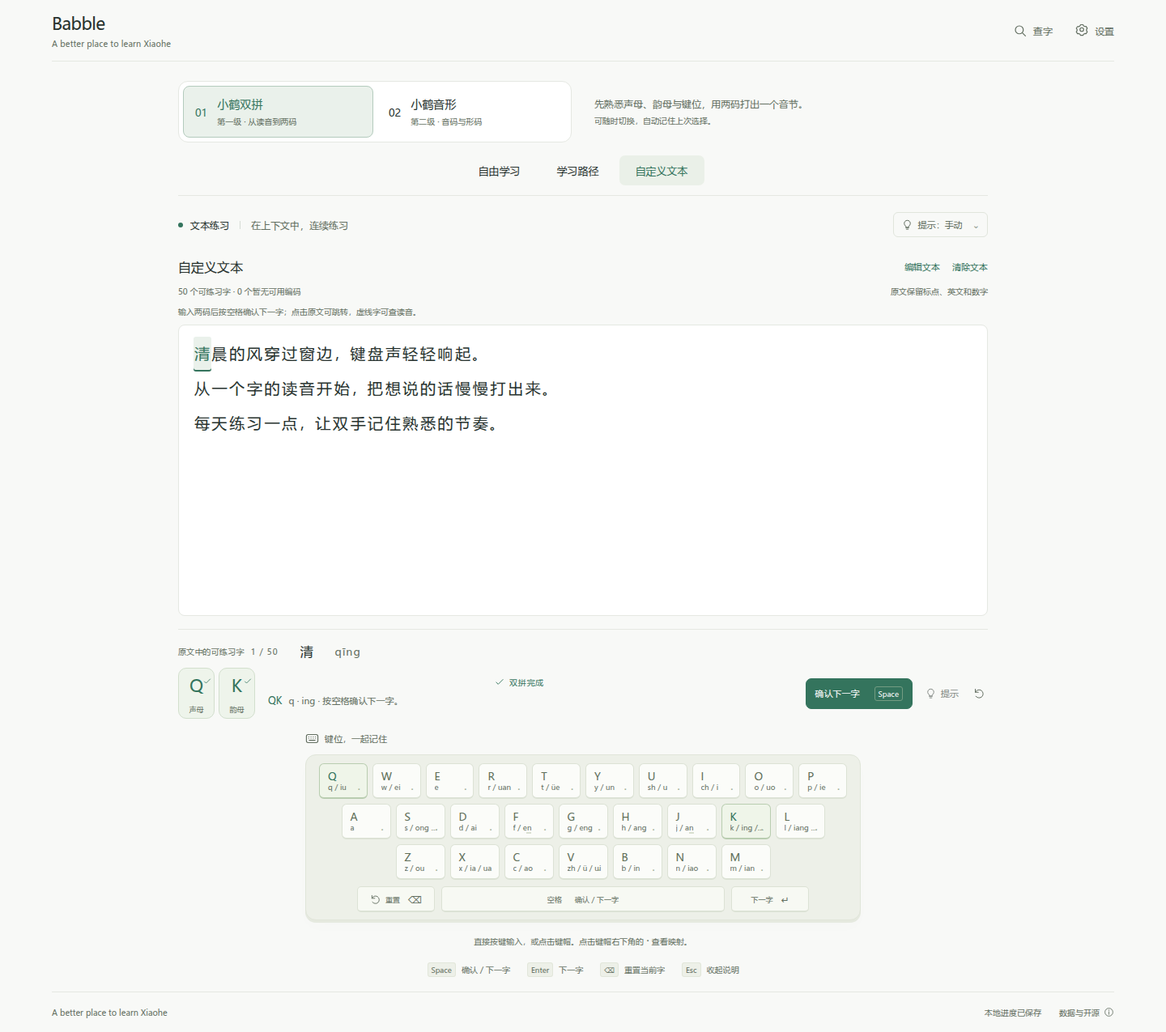
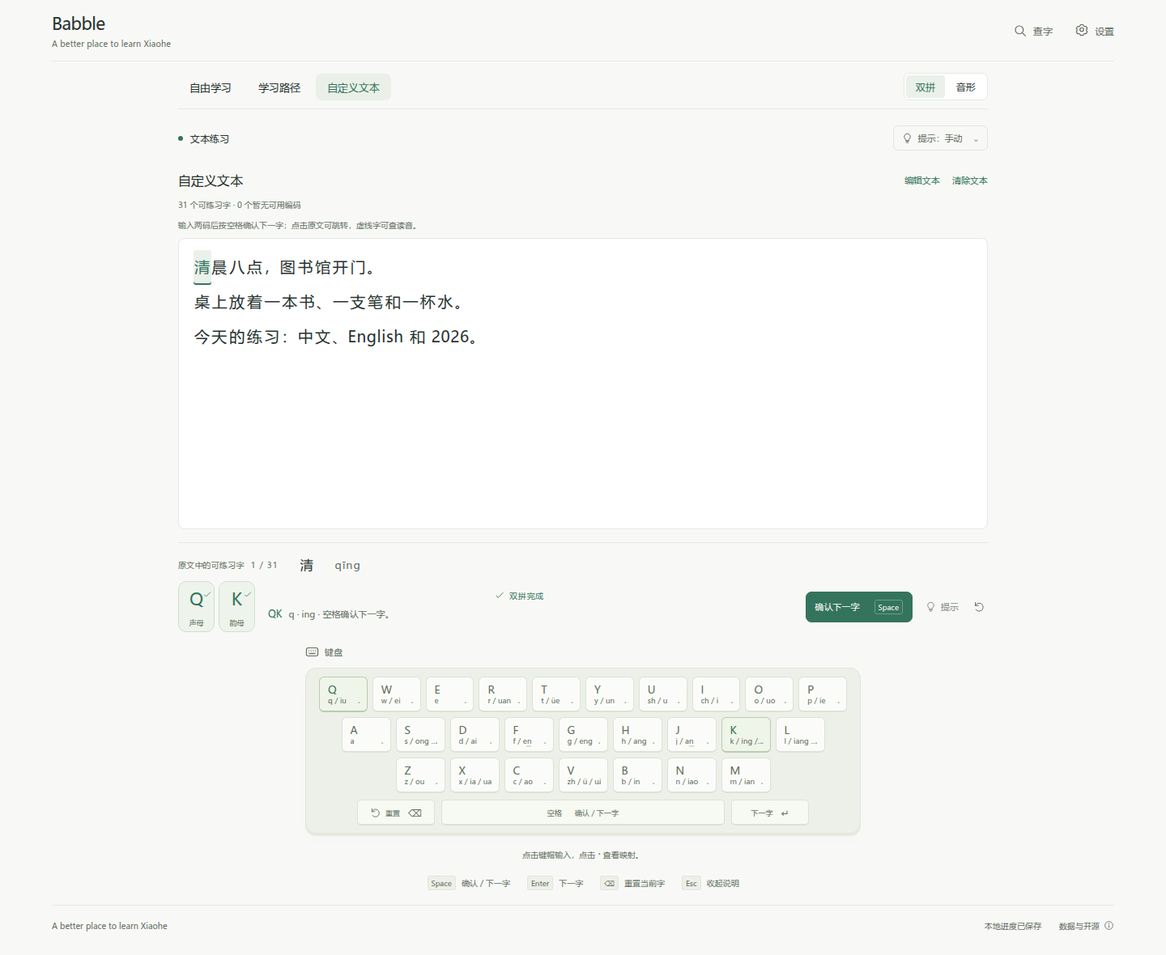
Simplify practice navigation and rename the sample text

diff --git a/src/app/App.tsx b/src/app/App.tsx
@@ -235,7 +235,7 @@ function LearningWorkspace({ userEntries, onUserLibraryChange, progress, level, 
     if (mode === 'path' && examplesOpen) applyTraining({ type: 'mark-assisted', hintLevel: 4 })
     if (mode === 'text' && textSession && textDisclosesCode(textSession)) applyTraining({ type: 'mark-assisted', hintLevel: 4 })
     clearExplanation()
-    setNotice('已重置当前字。慢慢来。')
+    setNotice('已重置当前字。')
   }, [ready, canTrain, finalizePartial, applyTraining, mode, examplesOpen, textSession, clearExplanation])
 
   const chooseEntry = useCallback((entry: CharacterEntry) => {
@@ -610,17 +610,16 @@ function LearningWorkspace({ userEntries, onUserLibraryChange, progress, level, 
     </header>
 
     <section className="learning-levels" aria-label="学习级别">
-      <div className="learning-level-switch" role="group" aria-label="选择学习级别">
-        <button className={soundOnly ? 'is-active' : ''} aria-pressed={soundOnly} onClick={() => switchLevel('shuangpin')}><span className="level-number">01</span><span><strong>小鹤双拼</strong><small>第一级 · 从读音到两码</small></span></button>
-        <button className={!soundOnly ? 'is-active' : ''} aria-pressed={!soundOnly} onClick={() => switchLevel('yinxing')}><span className="level-number">02</span><span><strong>小鹤音形</strong><small>第二级 · 音码与形码</small></span></button>
-      </div>
-      <p className="level-description">{soundOnly ? '先熟悉声母、韵母与键位，用两码打出一个音节。' : '在双拼基础上加入首形、末形，学习四码与部件拼字。'}<span>可随时切换，自动记住上次选择。</span></p>
-      {!preferenceSaved && <p className="level-memory-note" role="status">当前浏览器无法保存级别选择，本次页面仍可自由切换。</p>}
       <nav className="main-nav" aria-label="学习模式"><button className={mode === 'free' ? 'active' : ''} aria-current={mode === 'free' ? 'page' : undefined} onClick={switchToFree}>自由学习</button><button className={mode === 'path' ? 'active' : ''} aria-current={mode === 'path' ? 'page' : undefined} onClick={() => setDialog('path')}>学习路径</button><button className={mode === 'text' ? 'active' : ''} aria-current={mode === 'text' ? 'page' : undefined} onClick={switchToText}>自定义文本</button></nav>
+      <div className="learning-level-switch" role="group" aria-label="选择学习级别">
+        <button className={soundOnly ? 'is-active' : ''} aria-label="小鹤双拼" aria-pressed={soundOnly} onClick={() => switchLevel('shuangpin')}>双拼</button>
+        <button className={!soundOnly ? 'is-active' : ''} aria-label="小鹤音形" aria-pressed={!soundOnly} onClick={() => switchLevel('yinxing')}>音形</button>
+      </div>
+      {!preferenceSaved && <p className="level-memory-note" role="status">当前选择未保存。</p>}
     </section>
 
     <main id="practice" className={`practice ${mode === 'text' ? 'text-practice' : ''}`} tabIndex={-1} ref={practiceRef}>
-      <div className="practice-heading"><div className="practice-label"><span className="status-dot" />{mode === 'text' ? '文本练习' : mode === 'path' ? '课程练习' : '自由单字练习'}<span className="heading-divider" /><span className="muted">{mode === 'text' ? '在上下文中，连续练习' : '一次，理解一个字'}</span></div><button className={`hint-mode ${autoHints ? 'enabled' : ''}`} onClick={() => setAutoHints(value => !value)} aria-pressed={autoHints}><Icon name="hint" size={15} />提示：{autoHints ? '自动' : '手动'}<span className="tiny-chevron">⌄</span></button></div>
+      <div className="practice-heading"><div className="practice-label"><span className="status-dot" />{mode === 'text' ? '文本练习' : mode === 'path' ? '课程练习' : '自由单字练习'}</div><button className={`hint-mode ${autoHints ? 'enabled' : ''}`} onClick={() => setAutoHints(value => !value)} aria-pressed={autoHints}><Icon name="hint" size={15} />提示：{autoHints ? '自动' : '手动'}<span className="tiny-chevron">⌄</span></button></div>
 
       {mode === 'path' && lesson && <section className="lesson-context" aria-label="课程讲解">
         <div className="lesson-context-heading"><h2>{lesson.title}</h2><button onClick={() => setDialog('path')}>更换课程</button></div>
@@ -636,25 +635,25 @@ function LearningWorkspace({ userEntries, onUserLibraryChange, progress, level, 
 
       <section className={`character-stage ${mode === 'text' ? 'text-training-controls' : ''}`} aria-label="当前汉字练习">
         <div className={mode === 'text' ? 'text-target-meta' : undefined}>
-        <div className="sample-label">{mode === 'text' ? '原文中的可练习字' : mode === 'path' ? '本关练习' : auxiliary ? auxiliary.kind === 'user-code' ? '用户库编码练习' : '部件拼字练习' : soundOnly ? '双拼读音练习' : '已核对编码题库'} <span>{activeIndex + 1} / {activeTotal.toLocaleString()}</span></div>
+        <div className="sample-label">{mode === 'text' ? '原文中的可练习字' : mode === 'path' ? '本关练习' : auxiliary ? auxiliary.kind === 'user-code' ? '用户库编码练习' : '部件拼字练习' : soundOnly ? '双拼练习' : '音形练习'} <span>{activeIndex + 1} / {activeTotal.toLocaleString()}</span></div>
         {mode === 'text' ? <button className="character-inspect-button text-current-character" aria-label={`${activeChar}：${soundOnly ? '查看双拼与来源' : '查看取形与来源'}`} onClick={openInspector}><GlyphText text={activeChar} /></button> : <h1 className="character"><button className="character-inspect-button" aria-label={`${activeChar}：${soundOnly ? '查看双拼与来源' : '查看取形与来源'}`} onClick={openInspector}><GlyphText text={activeChar} /></button></h1>}
         <GlyphStatus state={activeGlyphs} />
         {auxiliary ? <div className="pinyin">{auxiliary.kind === 'component-spelling' ? characterIndex.lookup(activeChar).readings.length ? '部件拼读 · 本字读音可在查字页查看' : '本字读音未收录 · 可用部件拼字' : '用户提供的编码 · 不推断本字读音'}</div> : canTrain ? <div className="pinyin" aria-label={`拼音 ${state.entry.pronunciation.pinyin}`}>{state.entry.pronunciation.pinyin}</div> : <div className="pinyin">{selectedTextReading ? `${selectedTextReading.pinyin} · 仅读音` : '等待选择读音'}</div>}
         {!auxiliary && mode !== 'text' && characterIndex.lookup(state.entry.char).readings.length > 1 && <button className="reading-choice-link" onClick={openInspector}>多音字 · 选择其他读音</button>}
         </div>
         {auxiliary ? <AuxiliaryTrainer textMode={mode === 'text'} key={`${auxiliaryTargetKey(auxiliary)}:${auxiliaryGeneration}`} ref={auxiliaryRef} target={auxiliary} initialAssisted={auxiliaryAssisted} blocked={blocked} focused={focused} autoHints={autoHints} onNext={next} /> : canTrain ? <>
-        <div className="character-caption">{soundOnly ? '一个音节，两个键。' : state.positions.length < 4 ? `本关只输入：${targetLabel}` : '两个音码，两个形码。'}<span>{soundOnly ? state.positions.length === 1 ? `本关练习：${targetLabel}。` : '先声母，再韵母。' : state.positions.length < 4 ? '其余码位已提供。' : '每一码，都有它的含义。'}</span></div>
+        {mode === 'path' && state.positions.length < visibleSlotsCount && <div className="character-caption">本关只输入：{targetLabel}<span>其余码位已提供。</span></div>}
 
         <CodeSlots compact={mode === 'text'} level={level} state={state} selectedSlot={selectedSlot} onSelect={position => { if (state.positions.includes(position as CodePosition) || (position >= 2 && state.positions.some(target => target >= 2))) applyTraining({ type: 'mark-assisted', hintLevel: 3 }); setSelectedSlot(value => value === position ? null : position); setNotice('') }} />
 
         <div className={`feedback ${state.error ? 'feedback-error' : state.completed ? 'feedback-success' : ''}`} role="status" aria-live="polite" aria-atomic="true">
-          {notice ? <p>{notice}</p> : explanation ? <><span className="feedback-eyebrow">第 {explanation.position + 1} 码 · {explanation.label}</span><p><strong>{displaySlotValue(explanation)}</strong><span className="explanation-arrow">→</span><kbd>{explanation.key}</kbd><span className="explanation-detail">{explanation.position < 2 ? '声音对应的键位' : '这个字中使用的字形与键位'}</span></p></> : state.error && errorSlot ? <><span className="feedback-eyebrow">第 {state.error.position + 1} 码需要再试一下 · {errorSlot.label}</span><p>你输入了 <kbd>{state.error.input}</kbd><span className="explanation-detail">这一位是</span><strong>{displaySlotValue(errorSlot)}</strong><span className="explanation-arrow">→</span><kbd>{errorSlot.key}</kbd></p></> : state.completed ? <><span className="feedback-eyebrow"><Icon name="check" size={14} /> {soundOnly && state.positions.length === 2 ? '双拼完成' : state.positions.length === 4 ? '四码完成' : '本关目标完成'}</span><p><strong>{trainingCode(state)}</strong><span className="explanation-detail">{state.positions.map(position => displaySlotValue(slots[position])).join(" · ")} · {mode === 'text' ? '按空格确认下一字。' : '本次目标已完成。'}</span></p></> : state.hintLevel === 4 ? <><span className="feedback-eyebrow">完整解释 · 现在可以跟着输入</span><p className="full-explanation">{slots.slice(0, visibleSlotsCount).map(slot => <span key={slot.type}>{displaySlotValue(slot)}<i>→</i><strong>{slot.key}</strong></span>)}</p></> : state.hintLevel === 3 ? <><span className="feedback-eyebrow">第 {current.position + 1} 码 · {current.label}</span><p><strong>{displaySlotValue(current)}</strong><span className="explanation-arrow">→</span><kbd>{current.key}</kbd><span className="explanation-detail">在键盘上找到它，试着输入。</span></p></> : state.hintLevel === 2 ? <><span className="feedback-eyebrow">第 {current.position + 1} 码 · {current.label}</span><p>「{state.entry.char}」的{current.label}是 <strong>{displaySlotValue(current)}</strong><span className="explanation-detail">{mode === 'text' ? '点击提示，看看它在哪个键。' : '再按空格，看看它在哪个键。'}</span></p></> : state.hintLevel === 1 ? <><span className="feedback-eyebrow">第 {current.position + 1} 码 · {current.label}</span><p>{current.position < 2 ? '先想一想这个字的读音。' : '现在从这个字的字形中取码。'}<span className="explanation-detail">{mode === 'text' ? '点击提示，继续查看。' : '按空格，继续查看提示。'}</span></p></> : <><span className="feedback-eyebrow">{state.accepted.length ? '继续下一码' : current.position < 2 ? '从读音开始' : '从字形开始'}</span><p>{current.position < 2 ? '试着输入这个字的双拼音码。' : '接下来，试试这个字的形码。'}<span className="explanation-detail">不确定也没关系。</span></p></>}
+          {notice ? <p>{notice}</p> : explanation ? <><span className="feedback-eyebrow">第 {explanation.position + 1} 码 · {explanation.label}</span><p><strong>{displaySlotValue(explanation)}</strong><span className="explanation-arrow">→</span><kbd>{explanation.key}</kbd><span className="explanation-detail">{explanation.position < 2 ? '声音对应的键位' : '这个字中使用的字形与键位'}</span></p></> : state.error && errorSlot ? <><span className="feedback-eyebrow">第 {state.error.position + 1} 码输入错误 · {errorSlot.label}</span><p>你输入了 <kbd>{state.error.input}</kbd><span className="explanation-detail">这一位是</span><strong>{displaySlotValue(errorSlot)}</strong><span className="explanation-arrow">→</span><kbd>{errorSlot.key}</kbd></p></> : state.completed ? <><span className="feedback-eyebrow"><Icon name="check" size={14} /> {soundOnly && state.positions.length === 2 ? '双拼完成' : state.positions.length === 4 ? '四码完成' : '本关目标完成'}</span><p><strong>{trainingCode(state)}</strong><span className="explanation-detail">{state.positions.map(position => displaySlotValue(slots[position])).join(" · ")} · {mode === 'text' ? '空格确认下一字。' : 'Enter 下一字。'}</span></p></> : state.hintLevel === 4 ? <><span className="feedback-eyebrow">完整提示</span><p className="full-explanation">{slots.slice(0, visibleSlotsCount).map(slot => <span key={slot.type}>{displaySlotValue(slot)}<i>→</i><strong>{slot.key}</strong></span>)}</p></> : state.hintLevel === 3 ? <><span className="feedback-eyebrow">第 {current.position + 1} 码 · {current.label}</span><p><strong>{displaySlotValue(current)}</strong><span className="explanation-arrow">→</span><kbd>{current.key}</kbd></p></> : state.hintLevel === 2 ? <><span className="feedback-eyebrow">第 {current.position + 1} 码 · {current.label}</span><p>「{state.entry.char}」的{current.label}是 <strong>{displaySlotValue(current)}</strong><span className="explanation-detail">{mode === 'text' ? '点击提示查看键位。' : '空格查看键位。'}</span></p></> : state.hintLevel === 1 ? <><span className="feedback-eyebrow">第 {current.position + 1} 码 · {current.label}</span><p>{current.position < 2 ? '按读音取码。' : '按字形取码。'}<span className="explanation-detail">{mode === 'text' ? '点击提示继续。' : '空格继续。'}</span></p></> : <span className="feedback-eyebrow">第 {current.position + 1} 码 · {current.label}</span>}
         </div>
 
         {explanation && explanation.position >= 2 && <ShapeExplanation entry={state.entry} focus={explanation.position === 2 ? 'first' : 'last'} headingLevel={2} />}
 
-        {mode === 'text' ? <div className="stage-actions"><button className="primary-button" onClick={next}>{state.completed ? '确认下一字' : '下一字'} <kbd>Space</kbd></button><button className="subtle-button" disabled={state.completed} onClick={() => { hint(); practiceRef.current?.focus({ preventScroll: true }) }} aria-label="查看当前字提示"><Icon name="hint" size={15} />提示</button><button className="subtle-button" onClick={() => { reset(); practiceRef.current?.focus({ preventScroll: true }) }} aria-label="重置当前字"><Icon name="reset" size={15} /></button></div> : <div className="stage-actions"><button className="primary-button" onClick={state.completed ? next : hint}>{state.completed ? <Icon name="arrow" size={16} /> : <Icon name="hint" size={17} />}{state.completed ? '下一字' : state.hintLevel === 4 ? '已展开全部提示' : '给我一点提示'}{!state.completed && <kbd>Space</kbd>}</button><button className="subtle-button" onClick={reset} aria-label="重置当前字"><Icon name="reset" size={15} /><span>重置</span></button></div>}
-        <p className="stage-footnote">{soundOnly ? '点击码位看解释，点击汉字查读音；可随时跳过。' : '点击码位看解释，点击汉字查取形；可随时跳过。'}</p>
+        {mode === 'text' ? <div className="stage-actions"><button className="primary-button" onClick={next}>{state.completed ? '确认下一字' : '下一字'} <kbd>Space</kbd></button><button className="subtle-button" disabled={state.completed} onClick={() => { hint(); practiceRef.current?.focus({ preventScroll: true }) }} aria-label="查看当前字提示"><Icon name="hint" size={15} />提示</button><button className="subtle-button" onClick={() => { reset(); practiceRef.current?.focus({ preventScroll: true }) }} aria-label="重置当前字"><Icon name="reset" size={15} /></button></div> : <div className="stage-actions"><button className="primary-button" onClick={state.completed ? next : hint}>{state.completed ? <Icon name="arrow" size={16} /> : <Icon name="hint" size={17} />}{state.completed ? '下一字' : state.hintLevel === 4 ? '已展开全部提示' : '提示'}{!state.completed && <kbd>Space</kbd>}</button><button className="subtle-button" onClick={reset} aria-label="重置当前字"><Icon name="reset" size={15} /><span>重置</span></button></div>}
+        <p className="stage-footnote">{soundOnly ? '点击码位查看解释，点击汉字查读音。' : '点击码位查看解释，点击汉字查取形。'}</p>
         </> : <div className="text-pending-training"><p>{removedUserTarget ? '此用户编码已从当前字库移除。等待资料更新，或跳到其他字。' : soundOnly ? '请在原文下方选择此处读音。暂无双拼映射的读音可以跳过。' : '请在原文下方选择此处读音。没有可靠四码的读音可以跳过。'}</p><button className="primary-button" onClick={next}>下一字 <kbd>Space</kbd></button></div>}
       </section>
 

diff --git a/src/components/TextEditor.tsx b/src/components/TextEditor.tsx
@@ -207,24 +207,23 @@ export function TextEditor({ initialText, isEditing = false, lookup, prepareLook
 
   return <Dialog title="自定义文本" onClose={onClose} wide>
     <form className="text-editor" onSubmit={submit}>
-      <p className="text-editor-intro">{soundOnly ? '粘贴或上传想练习的内容，按每个字在原文中的读音练习小鹤双拼两码。' : '粘贴或上传想练习的内容，优先练四码，没有可用四码时查找部件拼字。'}</p>
       <div className="text-editor-label"><label htmlFor={inputId}>练习文本</label><button type="button" onClick={() => editText(DEFAULT_PRACTICE_TEXT.text)}>填入《花园中》</button></div>
       <div className="text-editor-upload"><label htmlFor={uploadId}>上传 TXT 文件</label><input id={uploadId} type="file" accept=".txt,text/plain" onClick={requestModel} onChange={readTextFile} aria-invalid={uploadStatus.error || undefined} aria-describedby={`${uploadHelpId} ${uploadStatusId}`} /><span id={uploadHelpId}>UTF-8 · 最多 20,000 字符；首次启用自动注音约下载 175 MB</span></div>
       <p id={uploadStatusId} className={`text-editor-upload-status ${uploadStatus.error ? 'is-error' : ''}`} role="status" aria-live="polite">{uploadStatus.message}</p>
       <section className="text-annotation-status" aria-label="自动注音" data-phase={hasPreprocessed ? 'preprocessed' : activeAnnotations ? 'annotated' : manuallySelected ? 'manual' : modelStatus.phase} aria-busy={waitingForAnnotation || undefined}>
-        {hasPreprocessed && !manuallySelected ? <p>《花园中》的 g2pW 读音已预处理，无需下载模型即可练习；读音仍可逐字修改。</p> : activeAnnotations ? <p>g2pW 自动注音已就绪，练习时可以随时修改当前字的读音。</p> : manuallySelected ? <p>本次使用手动选音，原文保持不变。</p> : modelStatus.phase === 'loading' ? <>
+        {hasPreprocessed && !manuallySelected ? <p>示例读音已就绪，无需下载模型，可逐字修改。</p> : activeAnnotations ? <p>自动注音已就绪，可逐字修改。</p> : manuallySelected ? <p>本次使用手动选音，原文保持不变。</p> : modelStatus.phase === 'loading' ? <>
           <p role="status">{modelStatus.totalBytes ? `正在准备 g2pW 自动注音模型：${((modelStatus.loadedBytes ?? 0) / 1000000).toFixed(1)} / ${(modelStatus.totalBytes / 1000000).toFixed(1)} MB` : '正在准备 g2pW 自动注音模型…'}<span>模型在本机运行，原文不会上传。</span></p>
           {modelStatus.totalBytes !== undefined && modelStatus.totalBytes > 0 && <progress aria-label="自动注音模型下载进度" max={modelStatus.totalBytes} value={modelStatus.loadedBytes ?? 0} />}
         </> : annotatingText === text || waitingForAnnotation ? <>
           <p role="status">正在为当前文本自动注音…{modelStatus.total ? ` ${modelStatus.completed ?? 0} / ${modelStatus.total} 处` : ''}</p>
           {modelStatus.total !== undefined && modelStatus.total > 0 && <progress aria-label="当前文本自动注音进度" max={modelStatus.total} value={modelStatus.completed ?? 0} />}
-        </> : modelStatus.phase === 'error' || failedAnnotation ? <p className="is-error" role="status">{failedAnnotation?.message ?? '自动注音模型暂时无法加载。原文保留，可以重试或手动选音练习。'}</p> : <p>可用 g2pW 按上下文自动选读音。点击上传 TXT 或下方按钮时才加载模型，原文仅在本机处理。</p>}
+        </> : modelStatus.phase === 'error' || failedAnnotation ? <p className="is-error" role="status">{failedAnnotation?.message ?? '自动注音模型暂时无法加载。原文保留，可以重试或手动选音练习。'}</p> : <p>上传 TXT 或启用自动注音时加载模型，原文在本机处理。</p>}
         {(!activeAnnotations || modelStatus.phase === 'loading') && !hasPreprocessed && <div className="text-annotation-actions">
           {modelStatus.phase !== 'loading' && annotatingText !== text && <button type="button" onClick={enableModel}>{modelStatus.phase === 'error' || failedAnnotation ? '重试 g2pW 自动注音' : '启用 g2pW 自动注音'}</button>}
           {(waitingForAnnotation || modelStatus.phase === 'error' || failedAnnotation) && <button type="button" disabled={!baseCanSubmit} onClick={startManually}>手动选音练习</button>}
         </div>}
       </section>
-      <textarea id={inputId} value={text} onChange={event => editText(event.target.value)} spellCheck={false} autoFocus placeholder="在这里粘贴文章、笔记或想练的一句话……" aria-invalid={invalid || undefined} aria-describedby={`${helpId} ${statusId}`} />
+      <textarea id={inputId} value={text} onChange={event => editText(event.target.value)} spellCheck={false} autoFocus placeholder="粘贴练习文本…" aria-invalid={invalid || undefined} aria-describedby={`${helpId} ${statusId}`} />
       <div className="text-editor-count"><span>{characterCount.toLocaleString()} / {TEXT_HARD_CAP.toLocaleString()} 字符</span>{document && <span>{document.counts.han.toLocaleString()} 个汉字 · {document.counts.trainable.toLocaleString()} 个可练习</span>}</div>
       <p id={helpId} className="text-editor-help">推荐不超过 {TEXT_RECOMMENDED_HAN.toLocaleString()} 个汉字。标点、英文和数字保留原样；{soundOnly ? '没有可用双拼的字会标明，自动选读仍可逐字修改。' : '没有可用四码或拼字的字会标明，自动选读仍可逐字修改。'}</p>
       {(preparing || preparationError) && <div className="component-data-status" role="status" data-status={preparing ? 'loading' : 'error'}>{preparing ? soundOnly ? '正在准备本段文字的读音资料…' : '正在准备本段文字的拼字资料…' : preparationError}{preparationError && <button type="button" onClick={() => setRetry(value => value + 1)}>{soundOnly ? '重试加载读音资料' : '重试加载拼字资料'}</button>}</div>}

diff --git a/src/components/VirtualKeyboard.tsx b/src/components/VirtualKeyboard.tsx
@@ -21,7 +21,7 @@ export function VirtualKeyboard({ state, view, onViewChange, pressedKey, selecte
   const selected = KEY_DEFINITIONS.find(item => item.key === selectedKey)
 
   return <section className="keyboard-section" aria-label="交互式虚拟键盘">
-    <div className="keyboard-heading"><span><Icon name="keyboard" size={17} /> 键位，一起记住</span>{!soundOnly && <div className="keyboard-views" role="group" aria-label="键盘映射显示">
+    <div className="keyboard-heading"><span><Icon name="keyboard" size={17} /> 键盘</span>{!soundOnly && <div className="keyboard-views" role="group" aria-label="键盘映射显示">
       {(['sound', 'shape', 'all'] as const).map((item, index) => <button key={item} aria-pressed={view === item} onClick={() => onViewChange(item)}>{['音', '形', '全部'][index]}</button>)}
     </div>}</div>
     <div className="keyboard">
@@ -47,6 +47,6 @@ export function VirtualKeyboard({ state, view, onViewChange, pressedKey, selecte
       <div className="keyboard-row function-row"><button className="function-key" onClick={event => { onReset(); if (textMode) event.currentTarget.blur() }}><Icon name="reset" size={14} /><span>重置</span><kbd>⌫</kbd></button><button className="space-key" onClick={textMode ? onNext : onHint}>空格<span>{textMode ? '确认／下一字' : '下一层提示'}</span></button><button className="function-key" onClick={onNext}><span>{state.completed ? '下一字' : '跳过此字'}</span><kbd>↵</kbd></button></div>
     </div>
     {selected && <div className="key-inspector"><strong className="key-badge">{selected.key}</strong><div><strong>当前字中的含义</strong><p>{slots.filter(slot => slot.key === selected.key).map(slot => `${slot.label} ${slot.position >= 2 ? shapeDisplayLabel(slot.value) : slot.value}`).join('；') || '当前字不使用这个键。'}</p><details className="key-all-mappings"><summary>查看此键已收录的映射</summary><p>声母：{selected.initials.join('、') || '无'}<br />韵母：{selected.finals.join('、') || '无'}</p>{!soundOnly && <><dl className="shape-root-positions">{(['first', 'last'] as const).map(position => <div key={position}><dt>{position === 'first' ? '已核验首形用法' : '已核验末形用法'}</dt><dd>{selected.shapeRoots.filter(root => root.usages?.some(usage => usage.position === position)).map(root => `${shapeDisplayLabel(root.root)}${root.kind === 'stroke' ? '［笔画］' : '［字根］'}`).join('、') || '本题库未收录'}</dd></div>)}</dl><small>按本库条目的实际首／末位置分类；笔画保留原始符号。当前字的根见上方，其他映射不代表本字也采用它们。</small><details><summary>查看这些用法的来源</summary><ul>{selected.shapeRoots.map(root => <li key={root.root}>{shapeDisplayLabel(root.root)}：{root.usages?.map(usage => `${usage.position === 'first' ? '首' : '末'}形（如 ${usage.exampleCharacters.join('、')}）；${usage.sourceIds.join('、')}`).join(' / ')}</li>)}</ul></details><p><small>声韵表已核对；字形仅覆盖当前已核验题库，尚不代表全部鹤形字根。</small></p></>}{soundOnly && <p><small>零声母音节使用专门的两键规则，当前字的具体音节可点击码位或汉字查看。</small></p>}</details></div><button className="icon-button" onClick={() => onInspect(null)} aria-label="收起键位说明"><Icon name="close" size={16} /></button></div>}
-    <p className="keyboard-note">直接按键输入，或点击键帽。点击键帽右下角的 <span>·</span> 查看映射。</p>
+    <p className="keyboard-note">点击键帽输入，点击 <span>·</span> 查看映射。</p>
   </section>
 }

diff --git a/src/styles/global.css b/src/styles/global.css
@@ -242,32 +242,19 @@ kbd { font-family: inherit; }
   *, *::before, *::after { animation: none !important; transition: none !important; scroll-behavior: auto !important; }
 }
 
-.learning-levels { max-width: 1000px; margin: 24px auto 0; display: grid; grid-template-columns: minmax(360px, 1fr) 1fr; align-items: center; gap: 16px 28px; }
-.learning-level-switch { display: flex; gap: 4px; padding: 5px; border: 1px solid var(--line); border-radius: 12px; background: var(--surface); }
-.learning-level-switch > button { flex: 1; display: flex; align-items: center; gap: 12px; padding: 12px 14px; border-radius: 8px; text-align: left; border: 1px solid transparent; }
-.learning-level-switch > button.is-active { background: var(--accent-soft); border-color: #b4cbbd; color: var(--accent); }
-.level-number { font-size: 13px; font-weight: 600; }
-.learning-level-switch strong { display: block; font-size: 14px; font-weight: 600; }
-.learning-level-switch small { display: block; margin-top: 5px; color: var(--muted); font-size: 10px; white-space: nowrap; }
-.level-description { font-size: 12px; line-height: 1.8; margin: 0; color: var(--muted); }
-.level-description > span { display: block; font-size: 10px; }
-.level-memory-note { grid-column: 1 / -1; color: var(--muted); font-size: 12px; margin: 0; }
-.learning-levels .main-nav { grid-column: 1 / -1; position: static; transform: none; justify-content: center; border-bottom: 1px solid var(--line); padding: 0 0 12px; }
+.learning-levels { max-width: 1000px; margin: 14px auto 0; padding-bottom: 10px; display: flex; flex-wrap: wrap; align-items: center; justify-content: space-between; gap: 8px 16px; border-bottom: 1px solid var(--line); }
+.learning-level-switch { display: inline-flex; flex-shrink: 0; gap: 2px; padding: 2px; border: 1px solid var(--line); border-radius: 7px; background: var(--surface); }
+.learning-level-switch > button { padding: 5px 12px; border-radius: 4px; font-size: 12px; line-height: 18px; white-space: nowrap; }
+.learning-level-switch > button.is-active { background: var(--accent-soft); color: var(--accent); }
+.level-memory-note { flex-basis: 100%; color: var(--muted); font-size: 11px; margin: 0; }
+.learning-levels .main-nav { position: static; transform: none; padding: 0; }
+.learning-levels .main-nav button { padding: 8px 14px; }
 .app-shell[data-learning-level="shuangpin"] .inspector-code-summary { grid-template-columns: repeat(2, minmax(0, 1fr)); }
 .app-shell[data-learning-level="shuangpin"] .inspector-slots { grid-template-columns: repeat(2, minmax(0, 1fr)); }
-@media (max-width: 800px) {
-  .learning-levels { grid-template-columns: 1fr; gap: 12px; margin-top: 18px; }
-  .level-description { text-align: center; font-size: 11px; }
-  .learning-level-switch { width: min(100%, 500px); justify-self: center; }
-}
 @media (max-width: 600px) {
   .site-header { height: 76px; padding-top: 0; align-items: center; }
-  .learning-level-switch > button { padding: 10px 8px; gap: 7px; }
-  .learning-level-switch strong { font-size: 13px; }
-  .learning-level-switch small { font-size: 9px; }
-  .learning-levels .main-nav { width: auto; gap: 4px; }
-  .learning-levels .main-nav button { padding: 8px 12px; }
-}
-@media (prefers-color-scheme: dark) {
-  .learning-level-switch > button.is-active { border-color: #537d60; }
+  .learning-levels { gap: 8px; margin-top: 10px; }
+  .learning-level-switch > button { padding: 5px 6px; font-size: 11px; }
+  .learning-levels .main-nav { width: auto; gap: 2px; }
+  .learning-levels .main-nav button { padding: 8px 6px; font-size: 12px; }
 }

diff --git a/src/components/TextTrainer.tsx b/src/components/TextTrainer.tsx
@@ -43,7 +43,7 @@ export function TextTrainer({ document, targetIndex, pageIndex, choiceKey, autom
   }, [document, targetIndex])
 
   const readingChoices = isAmbiguous && <div className="text-reading-choice" role="group" aria-label={`选择${activeToken.value}在此处的读音`}>
-    <p><strong>「{activeToken.value}」在这里怎么读？</strong><span>{automaticChoice ? '已按上下文自动选择，可以为当前这一处更改。' : '为当前这一处选择读音。同一个字的其他位置可以另选。'}</span></p>
+    <p><strong>「{activeToken.value}」的读音</strong><span>仅修改当前这一处。</span></p>
     <div className="text-reading-options">{options.map(option => <button key={option.key} aria-pressed={choice?.key === option.key} onClick={() => onChoose(option)}><span>{option.pinyin}</span>{option.disclosesCode && option.entry && <span className="text-choice-code">{soundOnly ? option.entry.fullCode.slice(0, 2) : option.entry.fullCode}</span>}{!option.entry && <small>仅读音</small>}</button>)}</div>
     {options.some(option => option.disclosesCode) && <p className="text-choice-note">同一读音有不同编码，选择时会显示编码；本次按使用协助记录。</p>}
     {!choice && <p className="text-choice-note" role="status">先选择本处读音，再开始输入{soundOnly ? '双拼两码' : '四码'}。</p>}
@@ -61,7 +61,7 @@ export function TextTrainer({ document, targetIndex, pageIndex, choiceKey, autom
 
   return <section className="text-context" aria-label="自定义文本练习">
     <div className="text-context-heading"><h2>自定义文本</h2><div><button onClick={onEdit}>编辑文本</button><button onClick={onClear}>清除文本</button></div></div>
-    <div className="text-context-summary"><span>{document.counts.trainable.toLocaleString()} 个可练习字 · {document.counts.unavailable.toLocaleString()} 个暂无可用编码</span><span>原文保留标点、英文和数字</span></div>
+    <div className="text-context-summary"><span>{document.counts.trainable.toLocaleString()} 个可练习字 · {document.counts.unavailable.toLocaleString()} 个暂无可用编码</span></div>
     <p id={helpId} className="text-context-help">{soundOnly ? '输入两码后按空格确认下一字；点击原文可跳转，虚线字可查读音。' : '输入编码后按空格确认下一字；点击原文可跳转，虚线字可查询。'}</p>
     <div className="text-original" role="region" aria-label="练习原文" aria-describedby={helpId} tabIndex={0} ref={viewportRef}>
       {page && document.tokens.slice(page.startToken, page.endToken).map(token => {

diff --git a/src/components/LearningPath.tsx b/src/components/LearningPath.tsx
@@ -50,7 +50,6 @@ export function LearningPath({ lessons, groups, activeLessonId, progress, experi
 
   return <Dialog title="学习路径" onClose={onClose} wide>
     <div className="learning-path">
-      <p className="path-introduction">{soundOnly ? '从声母、韵母和零声母规则开始，逐步练习完整的双拼两码。所有课程都可以直接进入，也可以随时跳过。' : '按你已经会的内容选择起点。所有课程都可以直接进入，也可以随时跳过。'}</p>
       {!soundOnly && <div className="path-experience">
         <label htmlFor={experienceId}>我目前的程度</label>
         <select id={experienceId} value={experience} onChange={event => {

diff --git a/tests/automatic-reading.test.ts b/tests/automatic-reading.test.ts
@@ -64,7 +64,7 @@ describe('contextual suggestions select only existing source options', () => {
 
 describe('built-in article uses locally generated annotations', () => {
   it('binds preprocessed readings to the exact original file and all codepoint positions', () => {
-    const bytes = readFileSync(new URL('../HY.txt', import.meta.url))
+    const bytes = readFileSync(new URL('../the_Tower_of_Babel.txt', import.meta.url))
     expect(createHash('sha256').update(bytes).digest('hex')).toBe(annotation.sourceSha256)
     const result = getPreprocessedPinyin(DEFAULT_PRACTICE_TEXT.text)!
     expect(result.items.length).toBe(Array.from(DEFAULT_PRACTICE_TEXT.text).length)

diff --git a/src/data/practice-text.ts b/src/data/practice-text.ts
@@ -1,8 +1,8 @@
-import text from '../../HY.txt?raw'
+import text from '../../the_Tower_of_Babel.txt?raw'
 
 /** User-selected practice content; its separate notice is in data/. */
 export const DEFAULT_PRACTICE_TEXT = {
   title: '花园中',
-  source: 'HY.docx',
+  source: 'the_Tower_of_Babel.txt',
   text,
 } as const

diff --git a/tools/coverage-next-research/programs/decomposition/leaf-expansion/compare.py b/tools/coverage-next-research/programs/decomposition/leaf-expansion/compare.py
@@ -51,7 +51,7 @@ for c in missing:
 reps=json.loads(Path('/root/.cache/babble-coverage-research/benchmarks/repertoires.json').read_text())['properties'];effects={}
 for k in ['kTGH','kGB0','kBigFive']:
  target={r['char'] for r in reps[k]};effects[k]={'target':len(target),'before':len(target&oldunion),'after':len(target&union),'added':len(target&(union-oldunion)),'beforeWithFinite':len(target&finite_before),'afterWithFinite':len(target&finite_after)}
-readings=json.loads((R/'src/data/generated/readings.json').read_text())['characters'];text=(R/'HY.txt').read_text();han=[c for c in text if c in readings];assert len(han)==1840
+readings=json.loads((R/'src/data/generated/readings.json').read_text())['characters'];text=(R/'the_Tower_of_Babel.txt').read_text();han=[c for c in text if c in readings];assert len(han)==1840
 hy={'targetOccurrences':len(han),'before':sum(c in oldunion for c in han),'after':sum(c in union for c in han),'newCharacters':[{'char':c,'occurrences':han.count(c)} for c in sorted(set(han)&(union-oldunion),key=ord)],'beforeWithFinite':sum(c in finite_before for c in han),'afterWithFinite':sum(c in finite_after for c in han)}
 pc=Counter(c for c,k in allpairs)
 summary={'excludeDirectCJKVIParentAndChild':EXCLUDE_CJKVI,'scope':'Single source-backed named-leaf expansion; complete corpus prewritten/hash-verified before comparator; research only','reference':{'officialTarget':len(official),'okChars':len(refchars),'okPairs':len(ref),'okSha256':sha(refp)},'before':{'candidateChars':len({c for c,k in oldpairs}),'candidatePairs':len(oldpairs),'exactChars':len(oldmc),'exactPairs':len(oldm),'fourAndExact':len(oldunion)},'expansionOnly':{'candidateChars':len({c for c,k in pairs}),'candidatePairs':len(pairs),'exactChars':len(mc),'exactPairs':len(m),'newExactChars':len(mc-oldmc),'newExactPairs':len(m-oldm),'newFourUnionChars':len(union-oldunion)},'combined':{'candidateChars':len(ac),'candidatePairs':len(allpairs),'exactChars':len(amc),'exactPairs':len(allm),'fourAndExact':len(union),'netAddedVs60891Baseline':len(union)-60891,'officialTargetMissingBeforeFinite':len(official-union),'officialTargetMissingAfterFinite':len(missing),'unicode18CandidateChars':len(ac&uni),'unicode18FourAndExact':len(union&uni),'unicode18NoCandidates':len(uni-ac),'nonUnicode18CandidateChars':len(ac-uni),'candidatePairRatioToPrevious':len(allpairs)/len(oldpairs),'additionalCandidatePairs':len(allpairs-oldpairs),'unicode18AmbiguousChars':sum(n>1 for c,n in pc.items() if c in uni),'unicode18MaximumCandidatePairs':max(n for c,n in pc.items() if c in uni)},'withFiniteCommon':{'acceptedCharacters':''.join(sorted(finite,key=ord)),'candidatePin':sha(finitep),'beforeUnion':len(finite_before),'afterUnion':len(finite_after),'leafNetAddedAfterFinite':len(finite_after-finite_before),'finiteAdditionalAfterLeaf':len(finite_after-union),'officialTargetMissing':len(missing),'netAddedVs60891Baseline':len(finite_after)-60891,'unicode18FourAndExact':len(finite_after&uni)},'remainingOfficial':{k:len(v) for k,v in classes.items()},'normative':effects,'hy':hy,'pins':{'generationSummarySha256':sha(O/'generation-summary.json'),'previousCandidatesSha256':sha(oldp)},'comparisonWallSeconds':time.monotonic()-start,'comparisonMaxResidentMemoryKiB':resource.getrusage(resource.RUSAGE_SELF).ru_maxrss}

diff --git a/tools/coverage-next-research/programs/checker/audit-common.py b/tools/coverage-next-research/programs/checker/audit-common.py
@@ -31,6 +31,6 @@ for r in g['records']:
  assert labels==ix[r['char']]['2'].split()
 compared=generated&ref;held={x for x in generated if x[0]=='无'};admissible=compared-held
 four=set(json.loads((OUT/'production-four-characters.json').read_text()));spell={c for c,k in json.loads((OUT/'equivalent-transfer-actual-exact-pairs.json').read_text())};baseline=four|spell;new={c for c,k in admissible}-baseline;union=baseline|{c for c,k in admissible}
-hy=(ROOT/'HY.txt').read_text();hyset={c for c in json.loads((OUT/'independent-properties.json').read_text())};hanchars=[c for c in hy if c in hyset];assert len(hanchars)==1840
+hy=(ROOT/'the_Tower_of_Babel.txt').read_text();hyset={c for c in json.loads((OUT/'independent-properties.json').read_text())};hanchars=[c for c in hy if c in hyset];assert len(hanchars)==1840
 out={'status':'passed-finite-endpoint-research-only','frozenCandidatesSha256':sha,'candidateCharacters':len(g['records']),'candidatePairs':len(generated),'exactPairs':len(compared),'exactCharacters':len({c for c,k in compared}),'semanticEndpointRootAgreementUsingPreexistingSixStrokeClasses':True,'codeComparison':[{ 'char':c,'code':k,'exact':(c,k) in compared,'contextHeld':c=='无'} for c,k in sorted(generated)],'contextHeldCharacter':'无','admissibleEndpointPairs':len(admissible),'admissibleEndpointCharacters':len({c for c,k in admissible}),'newCharactersAfterBroadSpelling':sorted(new),'researchCombinedUnion':len(union),'hyCoveredOccurrences':sum(c in union for c in hanchars),'hyMissing':{c:hanchars.count(c) for c in dict.fromkeys(hanchars) if c not in union},'scope':'Checker inspected licensed SVG stroke geometry and every source/key/sound witness. Finite authored endpoints only; intervening strokes remain explicitly unexpanded. No generic recognizer or full-teaching certification.'}
 (OUT/'common-finite-independent-audit.json').write_text(json.dumps(out,ensure_ascii=False,indent=2)+'\n');print(json.dumps(out,ensure_ascii=False,indent=2))

diff --git a/tools/g2pw/prepare.py b/tools/g2pw/prepare.py
@@ -1,5 +1,5 @@
 #!/usr/bin/env python3
-"""Rebuild fixed g2pW int8 resources and locally annotate authorized HY.txt.
+"""Rebuild fixed g2pW int8 resources and locally annotate authorized the_Tower_of_Babel.txt.
 
 Apache-2.0; preprocessing is adapted from GitYCC/g2pW. See Apache-2.0.txt.
 Downloads and raw weights are restricted to an external cache.
@@ -144,7 +144,7 @@ def build(args):
         'deployment': manifest,
         'programs': [{'path': f'tools/g2pw/{name}', 'sha256': digest(HERE / name)} for name in ['prepare.py', 'core.py', 'validate.py']]}
     if args.preprocess:
-        source = ROOT / 'HY.txt'
+        source = ROOT / 'the_Tower_of_Babel.txt'
         # Decode bytes directly: CR/LF and source offsets must remain unchanged.
         text = source.read_bytes().decode('utf-8')
         readings, confidences, indices = infer(text, metadata, tokenizer_for(cache / 'inputs'), session_for(quantized),
@@ -155,7 +155,7 @@ def build(args):
         dump(ROOT / 'src/data/generated/default-pinyin.json', annotation)
     annotation_path = ROOT / 'src/data/generated/default-pinyin.json'
     annotation = json.loads(annotation_path.read_text()) if annotation_path.exists() else {}
-    if annotation.get('sourceSha256') != digest(ROOT / 'HY.txt') or annotation.get('modelSha256') != model_sha:
+    if annotation.get('sourceSha256') != digest(ROOT / 'the_Tower_of_Babel.txt') or annotation.get('modelSha256') != model_sha:
         raise ValueError('Missing/stale default annotation; pass --preprocess to rebuild it locally')
     lock['defaultAnnotation'] = {'path': 'src/data/generated/default-pinyin.json', 'bytes': annotation_path.stat().st_size,
         'sha256': digest(annotation_path), 'codepoints': annotation['codepoints'],

diff --git a/tools/g2pw/validate.py b/tools/g2pw/validate.py
@@ -18,7 +18,7 @@ def main(args):
     cache = args.cache.expanduser().resolve()
     metadata = json.loads((cache / 'metadata.json').read_text())
     tokenizer = tokenizer_for(cache / 'inputs')
-    text = (ROOT / 'HY.txt').read_bytes().decode('utf-8')
+    text = (ROOT / 'the_Tower_of_Babel.txt').read_bytes().decode('utf-8')
     annotation = json.loads((ROOT / 'src/data/generated/default-pinyin.json').read_text())
     fixtures = json.loads((ROOT / 'docs/research-assets/contextual-pinyin/synthetic-fixtures.json').read_text())['cases']
     results = {}
@@ -43,7 +43,7 @@ def main(args):
     changed = [i for i, (a, b) in enumerate(zip(fp['readings'], quant['readings'])) if a != b]
     generated_matches = quant['readings'] == annotation['readings'] and quant['indices'] == annotation['modelIndices']
     report = {'date': '2026-11-02', 'provider': 'g2pw', 'modelVersion': annotation['modelVersion'],
-        'sourceSha256': digest(ROOT / 'HY.txt'), 'modelSha256': digest(cache / 'g2pw.int8.onnx'),
+        'sourceSha256': digest(ROOT / 'the_Tower_of_Babel.txt'), 'modelSha256': digest(cache / 'g2pw.int8.onnx'),
         'article': {'codepoints': len(text), 'annotatedOccurrences': sum(x is not None for x in quant['readings']),
                     'modelOccurrences': len(quant['indices']), 'fp32Int8DifferentPositions': changed,
                     'generatedMatchesLocalInt8': generated_matches},
